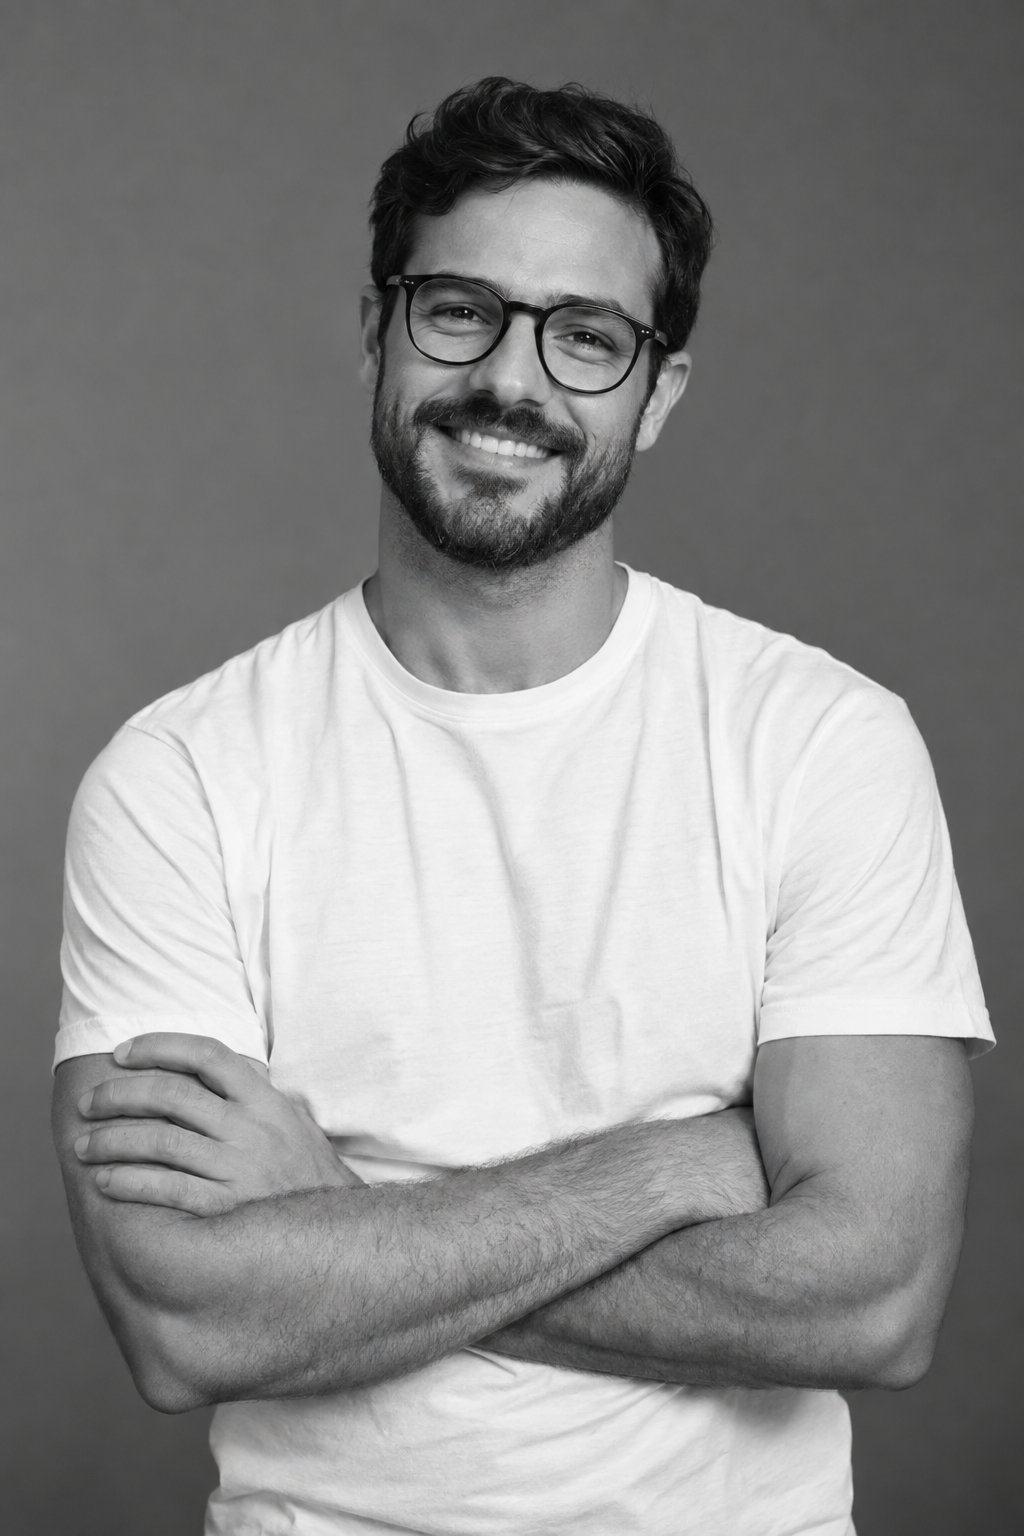
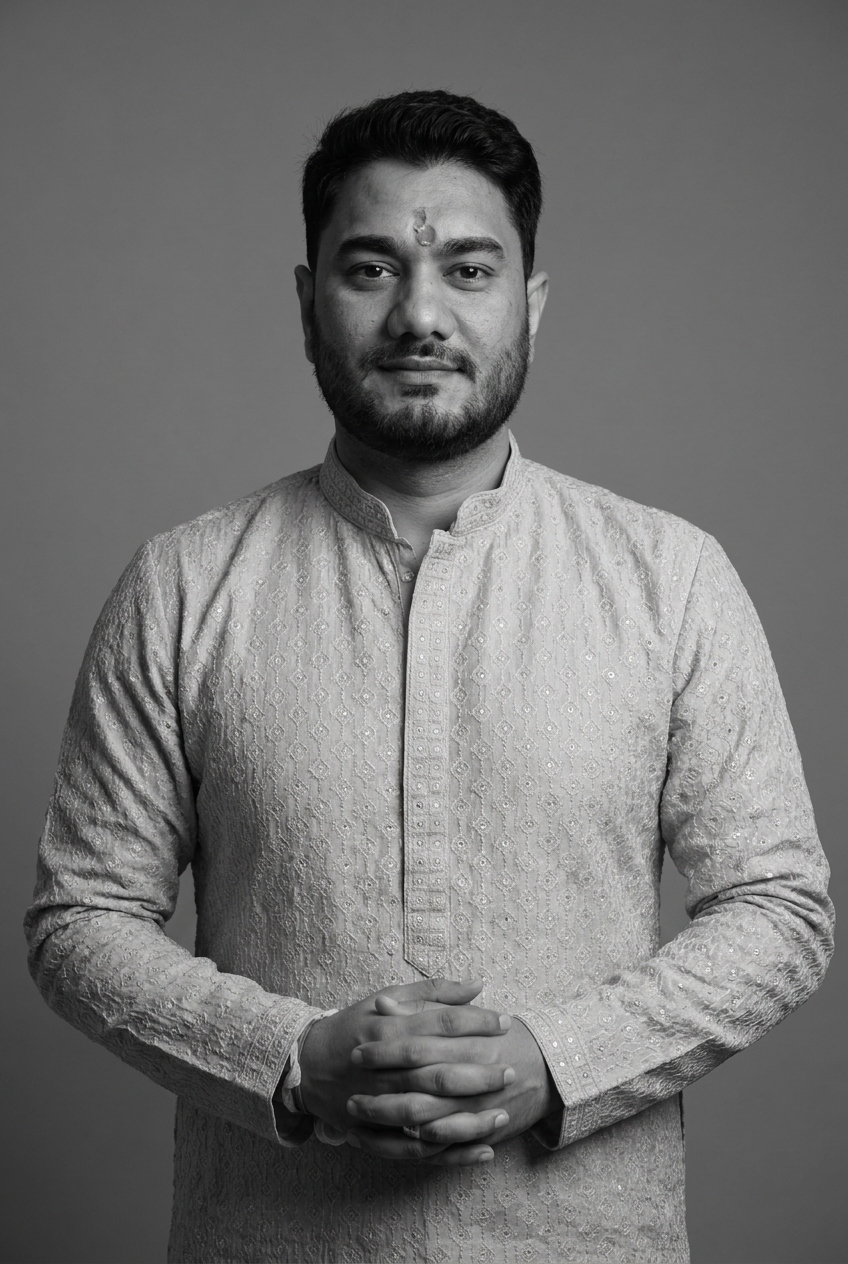
updated readme and images

diff --git a/README.md b/README.md
@@ -1,6 +1,6 @@
 # Portfolio Web
 
-A modern, editorial-style personal portfolio website built with **React**, **TypeScript**, **Vite** and **Tailwind CSS**. It is a redesign of a monochrome designer-portfolio concept, split into small, reusable section components.
+A modern, editorial-style portfolio for frontend developer Bhupender Singh Rautela, built with **React**, **TypeScript**, **Vite** and **Tailwind CSS**. The site uses reusable section components and a monochrome visual style.
 
 <!-- Add a screenshot after your first deploy:
 ![Portfolio preview](./docs/preview.png)
@@ -8,15 +8,16 @@ A modern, editorial-style personal portfolio website built with **React**, **Typ
 
 ## Features
 
-- **Hero**: full-bleed intro with navbar, large serif "Hello" headline, key stats (+200 projects, +50 startups), portrait and a scroll-down cue
-- **About**: short intro, a stat card (120% engagement increase), portrait, highlight bullets and a client trust badge
-- **Scroll strip**: horizontally scrollable showcase of project thumbnails with hover-reveal icons
+- **Hero**: full-bleed intro with a responsive navbar, large serif "Hello" headline, experience stats, portrait and a scroll-down link
+- **About**: developer introduction, experience stat, portrait, highlight bullets and core technology stack
+- **Scroll strip**: horizontally scrollable project showcase with previous/next controls, disabled states at the ends and hover-reveal icons
 - **Experience**: timeline of roles with tags, plus a featured role with a mini image gallery and arrow button
-- **CTA banner**: dark, image-backed "Exclusive Winter Deal" consultation call-out
+- **CTA banner**: dark, image-backed frontend-work call-out
 - **Latest works**: portfolio grid with hover overlays and site-name badges
-- **Blog**: "Design Insights & Trends" card grid with tags and read times
+- **Blog**: frontend article card grid with tags and read times
 - **Final CTA** and **Footer**: closing call-to-action, navigation links and email contact
-- Responsive layout and a consistent monochrome look with Playfair Display + Inter typography
+- Responsive layout, smooth in-page anchor scrolling (respects reduced-motion preferences), and a consistent monochrome look with Playfair Display + Inter typography
+- Accessible mobile navigation that closes after selecting a link, on Escape, or when switching to desktop width
 
 ## Tech Stack
 
@@ -64,7 +65,7 @@ Open the address printed in the terminal (usually `http://localhost:5173`).
 
 ```text
 portfolio-web/
-├── index.html            # Page title and font setup
+├── index.html            # Page title and app entry point
 ├── package.json
 ├── src/
 │   ├── App.tsx           # Composes all sections in order
@@ -83,13 +84,13 @@ portfolio-web/
 
 ## Customizing the Site
 
-The text and images are placeholders from the design concept. Replace them with your own:
+Update the portfolio content and images to match your experience and work:
 
 1. **Name, headline and stats**: edit the `Hero` and `About` components.
 2. **Experience**: update the roles, dates and tags in `Experience`.
 3. **Projects**: change titles, links and images in `ScrollStrip` and `LatestWorks`.
 4. **Blog cards**: edit titles, tags and read times in `Blog`.
-5. **Contact**: replace the sample email (`hello@dnova.com`) and nav links in `Footer`.
+5. **Contact**: replace the email address, phone number and location in `Footer`.
 6. **Page title and fonts**: edit `index.html`.
 7. **Images**: swap the portraits, still-life shots and 3D compositions for your own work.
 
@@ -103,7 +104,7 @@ This is a static site, so it works on any static host.
 ## Notes
 
 - Keep `node_modules/` and `dist/` out of Git by listing them in `.gitignore`.
-- Placeholder images in this project were AI-generated to match the reference design. Replace them with your own work before publishing.
+- Review the sample project and blog content and replace it with your own work before publishing.
 
 ## License
 
